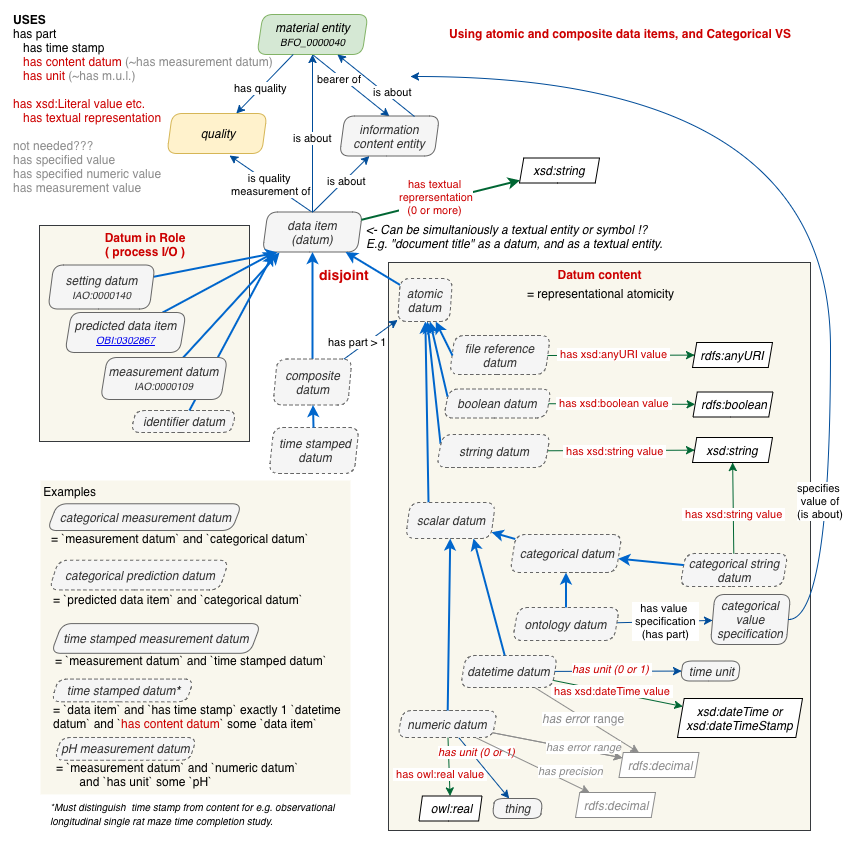
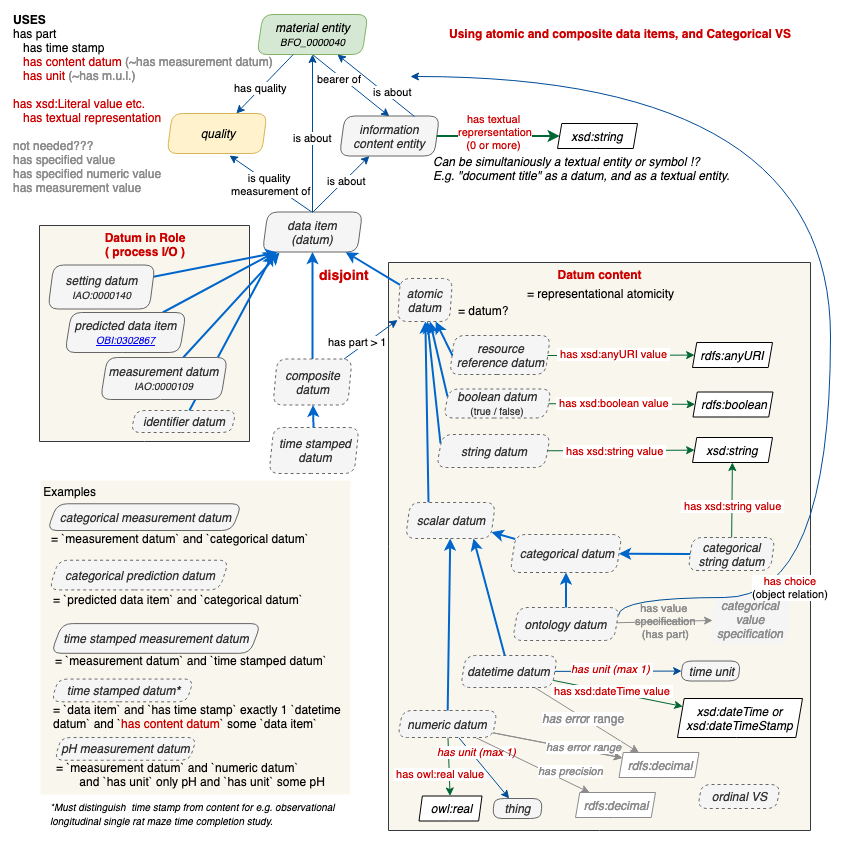
timestamp graphic redo

diff --git a/_pages/docs/data-time-stamped.md b/_pages/docs/data-time-stamped.md
@@ -10,11 +10,11 @@ Process models and data items can be enhanced with time information in a few way
 
 - Assays and other processes can be marked with start and/or stop times, and therefore any specified output could have those time points to mark its relevance.
  
-- OBI provides time-stamped datum description by data properties directly, and via the value specification approach.
+- OBI provides time-stamped datum description by data properties directly, and via the value specification approach. **The diagrams below show how similar these are**.
 
 ## Time stamped data via datum parthood
 
-Alan Ruttenberg, Melanie Courtot & others created this structure which is simple enough if connecting data properties directly; it would be rather complex if used with value specifications. It illustrates datums being part of a datum, using `part of` subproperties to disambiguate the time dimension from the other (one or more) measurement datum components.
+Originating in IAO, this OBI structure illustrates datums being part of a datum, using `has measurement datum` and `has time stamp`, which are both `has part`subproperties to disambiguate the time dimension from the other (one or more) measurement datum components.
 
 Using:
 
@@ -27,24 +27,23 @@ Using:
  
 <img src="/assets/images/docs/data_timestamp_length.png">
 
-An example, using `has content datum` rather than `has measurement datum` when object isn't necessarily a measurement datum. `has time stamp` is a subproperty of `has part`.
-
     `time stamped measurement datum`:
     - `has time stamp` exactly 1 `time measurement datum` 
     - `has measurement datum` some `measurement datum`
 
     `geolocation coordinate datum`:
-    - `has content datum` exactly 1 `latitude datum` 
-    - `has content datum` exactly 1 `longitude datum`
+    - `has measurement datum` exactly 1 `latitude datum` 
+    - `has measurement datum` exactly 1 `longitude datum`
 
     `time stamped geolocation coordinate datum`:
     - `has time stamp` exactly 1 `time measurement datum` 
-    - `has content datum` exactly 1 `geolocation coordinate datum`
+    - `has measurement datum` exactly 1 `geolocation coordinate datum`
 
+*Damion's note: I would advocate for using a new general `has content datum` rather than the `has measurement datum` OP for these expressions so that we don't have to set up a whole bunch of new entities to do the same thing for the other datum roles: predictions, settings, etc. E.g. suggests more of a fundamental `time stamped datum` rather than a role-specific `time stamped measurement datum`, which could be described using post-composition.*
 
 ## Time stamped data via value specifications
 
-- Any datum's existing value specification(s) can be accompanied by a time value specification, effectively making it a 2-dimensional or n-dimensional observation. In other words, value specifications, as long as they are unambiguously about (`specifies value of`) different things, are additive. 
+- Any datum's existing value specification(s) can be accompanied by a time value specification, effectively making it a 2-dimensional or n-dimensional observation. In other words, value specifications, as long as they are unambiguously about (`specifies value of`) different things, are additive. Because of the underlying `part of` object property, thismany ways this resembles the datum-data property approach. 
 
 Here is a diagram showing a generic "time stamped measurement datum" that is about some time and quality.
 

diff --git a/_pages/docs/data-properties.md b/_pages/docs/data-properties.md
@@ -103,7 +103,7 @@ Below is another example focusing on providing values for information content en
 
 <img src="/assets/images/docs/data_lee_has_specified_value.png">
 
-And here is a pH measurement example, showing the datum as an output of a process, and alternately with a unit (which some may allow as optional - UO has the "pH" unit though techically the calculation is a unitless logarithm).
+And here is a pH measurement example, showing the datum as an output of a process, and alternately with a unit (which some may allow as optional - UO has the "pH" unit, though techically the formula yields a dimensionless number).
 
 <img src="/assets/images/docs/data_ph_object_property.png">
 
